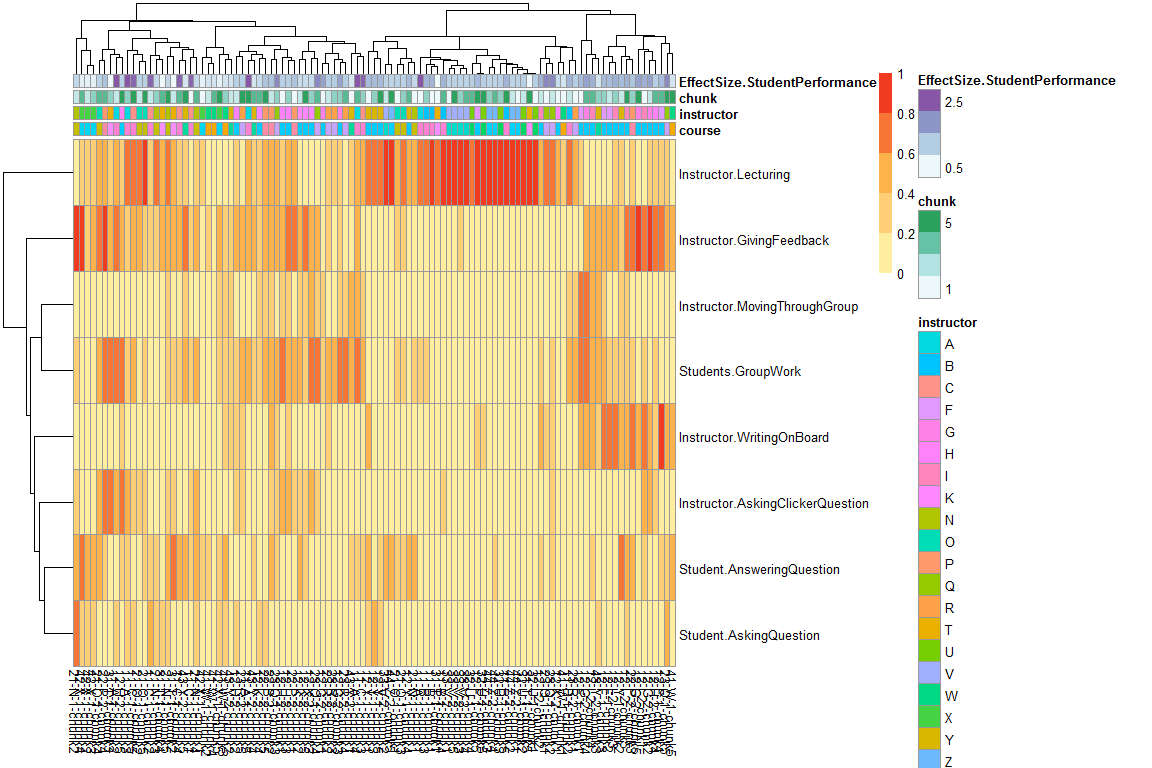
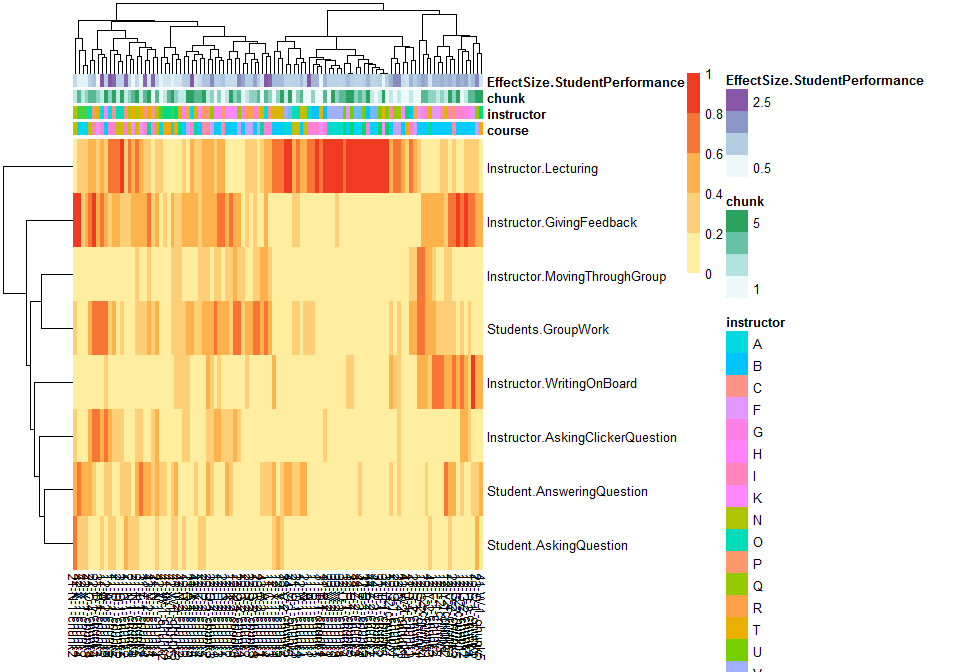
added plots

diff --git a/COPUS-paper-10minsegments.md b/COPUS-paper-10minsegments.md
@@ -13,7 +13,8 @@ require(knitr)
 ```
 
 ```r
-opts_chunk$set(echo=F, fig.width = 12, fig.height = 8)
+opts_chunk$set(echo=F, fig.width = 10, fig.height = 7)
+cluster_method <- "complete"
 ```
 
 
@@ -53,3 +54,17 @@ Fractional time was calculated as a mean of all observations
 
 
 ![](COPUS-paper-10minsegments_files/figure-html/first_year_sliced_times_cluster-1.png)
+
+### first year and second year classes, sliced, clustered based on classes X chunk*metric
+
+
+
+![](COPUS-paper-10minsegments_files/figure-html/jr_sliced_times_cluter_rows-1.png)
+
+#### No clustering on columns
+
+![](COPUS-paper-10minsegments_files/figure-html/unnamed-chunk-9-1.png)
+
+#### No clustering on rows
+
+![](COPUS-paper-10minsegments_files/figure-html/unnamed-chunk-10-1.png)
